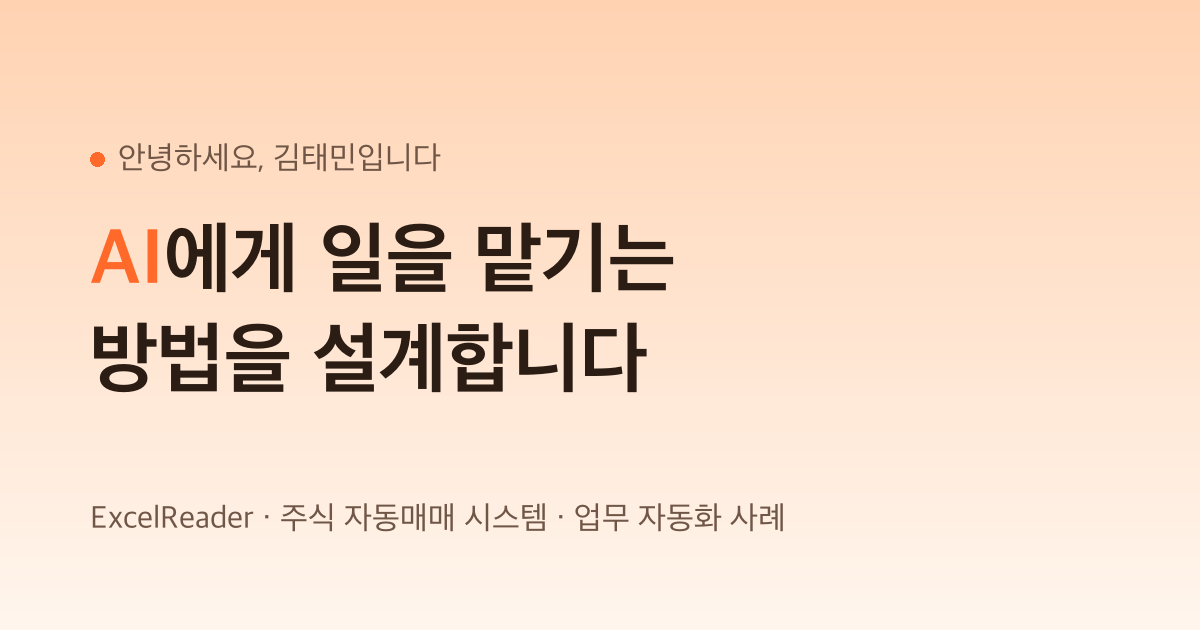
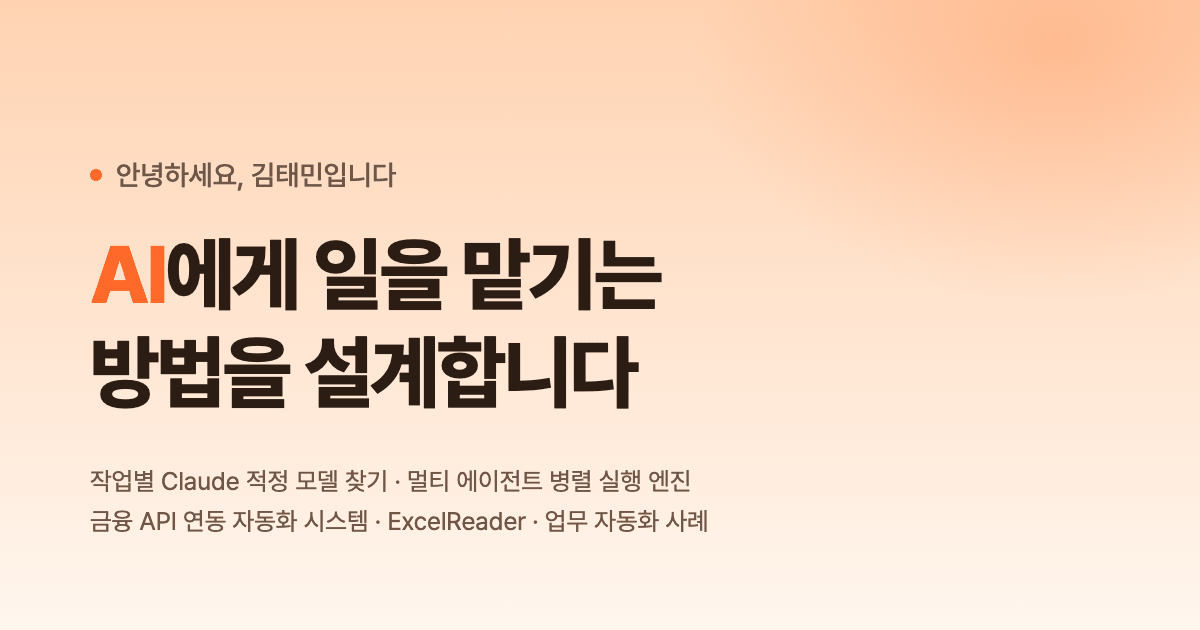
첫 화면 좌우 여백 복구, 통계를 고객사·연동 실적으로 교체, 공유 미리보기 이미지를 현재 프로젝트 이름으로 갱신

diff --git a/index.html b/index.html
@@ -8,7 +8,7 @@
     <meta property="og:locale" content="ko_KR" />
     <meta property="og:site_name" content="김태민 포트폴리오" />
     <meta property="og:title" content="AI에게 일을 맡기는 방법을 설계합니다 | 김태민 포트폴리오" />
-    <meta property="og:description" content="현장의 불편을 찾아 시스템과 AI로 바꿔 온 사례. 업무 자동화 사례, 작업별 Claude 적정 모델 찾기, 멀티 에이전트 병렬 실행 엔진, 금융 API 연동 자동화 시스템." />
+    <meta property="og:description" content="현장의 불편을 찾아 시스템과 AI로 바꿔 온 사례. 업무 자동화 사례, 작업별 Claude 적정 모델 찾기, 멀티 에이전트 병렬 실행 엔진, 금융 API 연동 자동화 시스템, ExcelReader." />
     <meta property="og:url" content="https://kimtaemin27.github.io/tm_portfolio/" />
     <meta property="og:image" content="https://kimtaemin27.github.io/tm_portfolio/og.png" />
     <meta property="og:image:width" content="1200" />

diff --git a/src/pages/Home.jsx b/src/pages/Home.jsx
@@ -38,9 +38,9 @@ export default function Home() {
           </div>
           <dl className="hero-stats">
             <div><dd>3년 10개월</dd><dt>총 경력</dt></div>
-            <div><dd>4곳</dd><dt>회사 경험</dt></div>
+            <div><dd>400~500곳</dd><dt>멀티테넌트 ERP 고객사</dt></div>
+            <div><dd>11종</dd><dt>결제·정산·인증·공시 외부 API 연동</dt></div>
             <div><dd>4개</dd><dt>기획부터 실측까지 끝낸 개인 프로젝트</dt></div>
-            <div><dd>4건</dd><dt>회사 업무 자동화 사례</dt></div>
           </dl>
         </div>
       </section>

diff --git a/src/index.css b/src/index.css
@@ -140,7 +140,7 @@ code {
 }
 .dark > * { position: relative; z-index: 1; }
 
-.hero { padding: 120px 0 96px; }
+.hero { padding-top: 120px; padding-bottom: 96px; }
 .hero-eyebrow { display: inline-flex; align-items: center; gap: 10px; font-size: 0.9rem; font-weight: 600; color: var(--text-sub); margin-bottom: 26px; }
 .hero-eyebrow .dot { width: 8px; height: 8px; border-radius: 50%; background: var(--accent); box-shadow: 0 0 0 4px rgba(255, 106, 43, 0.2); }
 .hero h1 { font-size: clamp(2.6rem, 6.4vw, 5rem); font-weight: 800; line-height: 1.15; letter-spacing: -0.035em; color: var(--text); }
